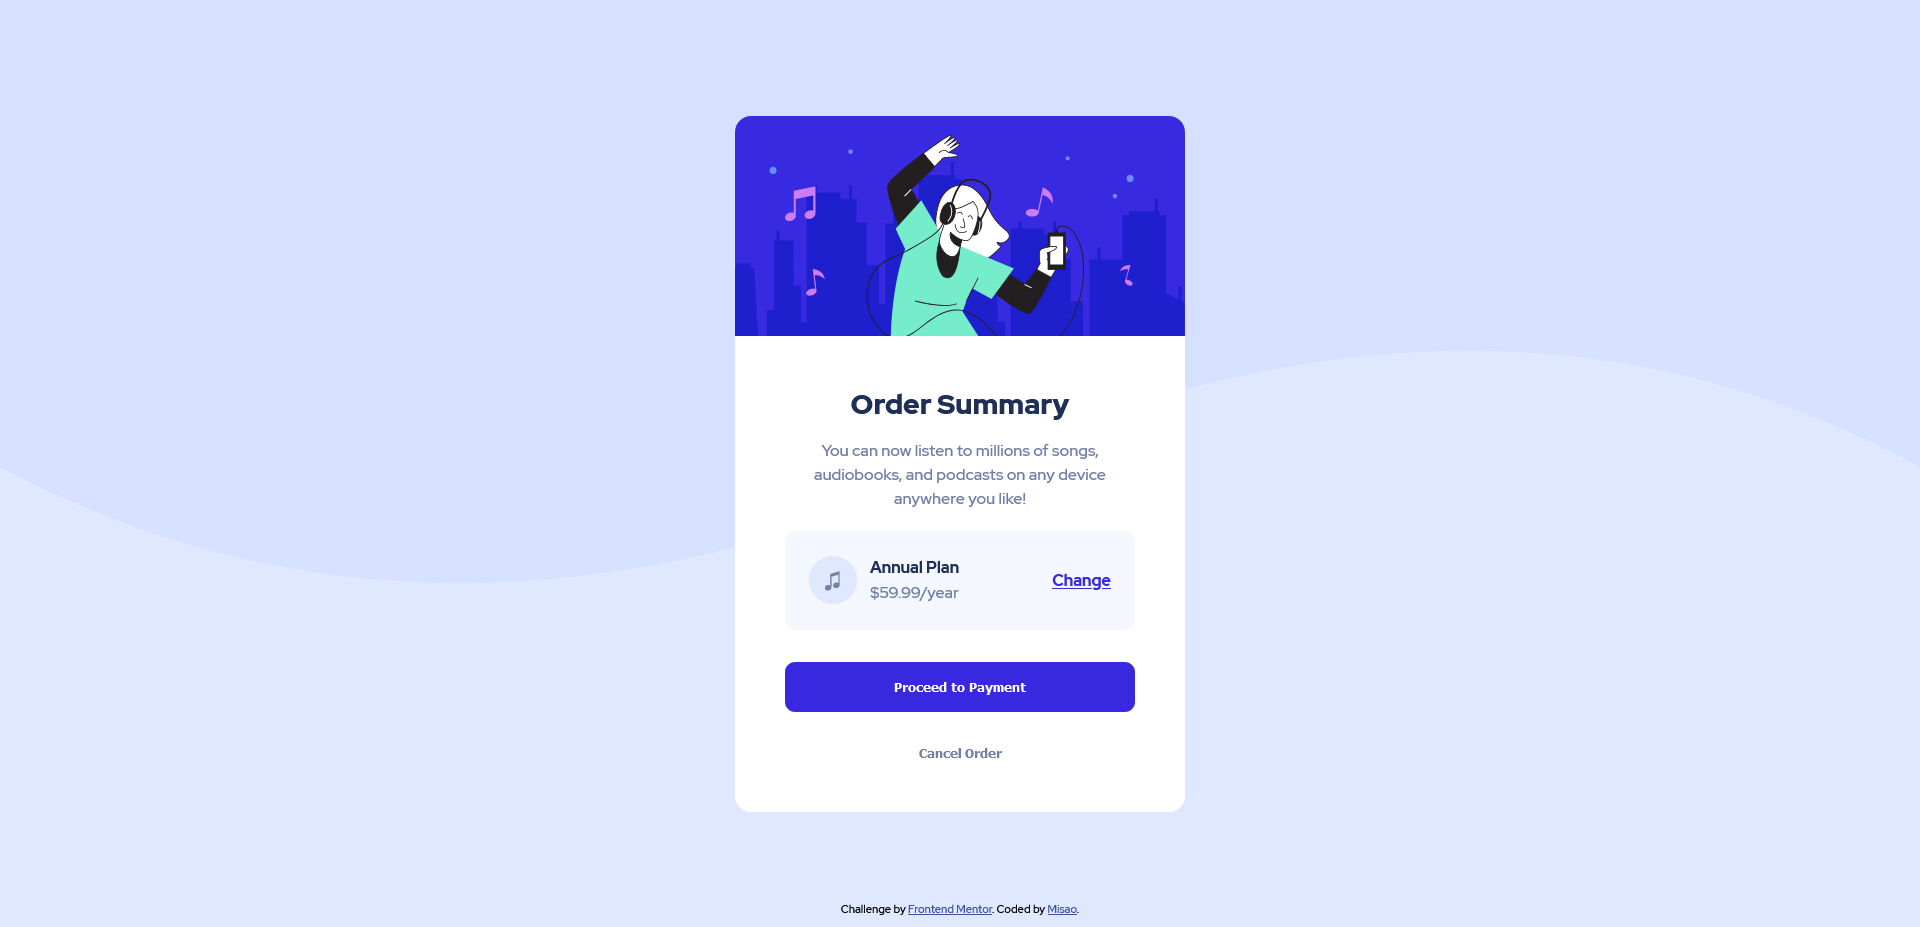
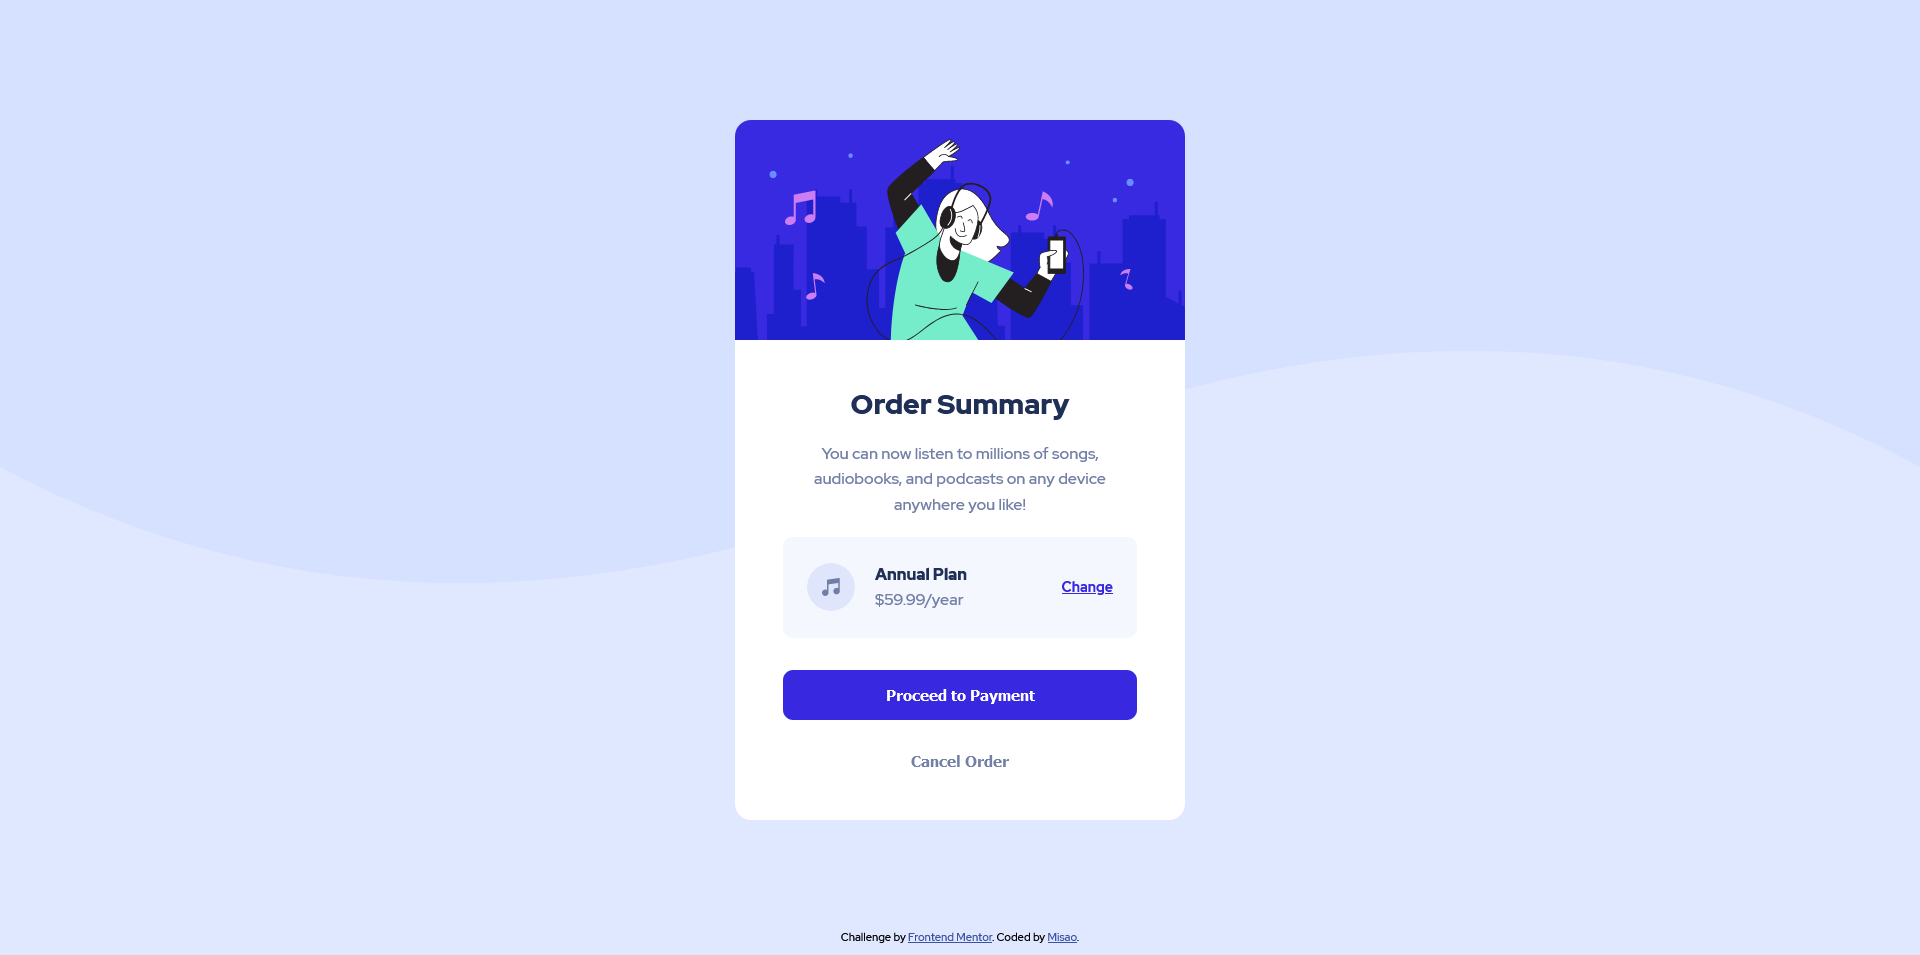
Add changes made from feedback

diff --git a/styles/main.css b/styles/main.css
@@ -1,9 +1,9 @@
 :root {
-  --primary-blue    : hsl(245, 75%, 52%);
-  --pale-blue       : hsl(225, 100%, 94%);
-  --very-pale-blue  : hsl(225, 100%, 98%);
+  --primary-blue: hsl(245, 75%, 52%);
+  --pale-blue: hsl(225, 100%, 94%);
+  --very-pale-blue: hsl(225, 100%, 98%);
   --desaturated-blue: hsl(224, 23%, 55%);
-  --dark-blue       : hsl(223, 47%, 23%);
+  --dark-blue: hsl(223, 47%, 23%);
 }
 
 body {
@@ -18,53 +18,91 @@ body {
   -ms-align-items: center;
   align-items: center;
   justify-content: center;
-  height: 100vh;
+  min-height: calc(100vh - 64px);
+  padding-top: 24px;
+  padding-left: 24px;
+  padding-right: 24px;
+  padding-bottom: 40px;
   background-image: url('../images/pattern-background-desktop.svg');
   background-repeat: no-repeat;
   background-position: top;
   background-size: contain;
+  background-attachment: fixed;
   background-color: #e0e8ff;
   background-color: var(--pale-blue);
 }
 
+@media screen and (max-width: 420px) {
+  .container {
+    padding-left: 24px;
+    padding-right: 24px;
+  }
+}
+
 .card {
-  width: 450px;
-  height: 696px;
+  max-width: 450px;
   text-align: center;
   background-color: white;
   border-radius: 16px;
+  padding-bottom: 18px;
 }
 
-.card img {
+@media screen and (max-width: 420px) {
+  .card {
+    padding-bottom: 6px;
+  }
+}
+
+.card-content {
+  padding-left: 48px;
+  padding-right: 48px;
+}
+
+@media screen and (max-width: 420px) {
+  .card-content {
+    padding-left: 24px;
+    padding-right: 24px;
+  }
+}
+
+.card-banner {
   border-radius: 16px 16px 0 0;
+  max-width: 100%;
+  object-fit: cover;
 }
 
-h2 {
+h1 {
   font-weight: 900;
-  margin-top: 44px;
-  margin-bottom: 10px;
+  margin-top: 40px;
+  margin-bottom: 18px;
   font-size: 28px;
   color: navy;
   color: var(--dark-blue);
 }
 
+@media screen and (max-width: 420px) {
+  h1 {
+    font-size: 22px;
+    margin-top: 28px;
+    margin-bottom: 16px;
+  }
+}
+
 .card p {
-  width: 80%;
   margin-left: auto;
   margin-right: auto;
   margin-bottom: 20px;
   color: #99b;
   color: var(--desaturated-blue);
-  line-height: 1.5;
+  line-height: 1.6;
 }
 
-.attribution {
-  position: absolute;
-  bottom: 1em;
-  left: 0;
-  right: 0;
-  margin-left: auto;
-  margin-right: auto;
+@media screen and (max-width: 420px) {
+  .card p {
+    margin-bottom: 24px;
+    margin-left: 8px;
+    margin-right: 8px;
+  }
 }
 
 .card-item {
@@ -73,8 +111,7 @@ h2 {
   -ms-align-items: center;
   align-items: center;
   justify-content: space-between;
-  width: calc(350px - 48px);
-  padding: 24px;
+  padding: 24px 24px 25px 24px;
   margin-left: auto;
   margin-right: auto;
   margin-bottom: 32px;
@@ -83,25 +120,30 @@ h2 {
   border-radius: 10px;
 }
 
-.icon {
-  line-height: 48px;
-  width: 48px;
-  height: 48px;
+@media screen and (max-width: 420px) {
+  .card-item {
+    padding: 16px;
+    margin-bottom: 22px;
+  }
+}
+
+.item-icon {
   border-radius: 50%;
-  background-color: #aac;
-  background-color: var(--pale-blue);
-  color: #88a;
-  color: var(--desaturated-blue);
   display: inline-block;
-  text-align: center;
-  font-size: 24px;
 }
 
 .details {
   display: inline-block;
-  margin-right: 64px;
+  width: 100%;
+  padding-left: 20px;
   line-height: 1.6;
   text-align: left;
+}
+
+@media screen and (max-width: 420px) {
+  .details {
+    font-size: 14px;
+  }
 }
 
 .item-name {
@@ -122,19 +164,33 @@ h2 {
   font-size: 14px;
 }
 
+@media screen and (max-width: 420px) {
+  .card-item a {
+    font-size: 13px;
+  }
+}
+
 .card-item a:hover {
-  transform: scale(1.1);
+  text-decoration: none;
+  opacity: 70%;
 }
 
 .btn {
   display: block;
   margin: 16px auto 16px auto;
-  width: 350px;
+  width: 100%;
   border: 0;
   height: 50px;
   border-radius: 10px;
   font-weight: 700;
   font-size: 15px;
+}
+
+@media screen and (max-width: 420px) {
+  .btn {
+    margin-top: 10px;
+    margin-bottom: 10px;
+  }
 }
 
 .btn-primary {
@@ -149,12 +205,24 @@ h2 {
   background-color: transparent;
 }
 
-.btn:hover {
-  box-shadow: 0 0 1px 2px black;
-  font-size: 16px;
+.btn-primary:hover {
+  opacity: 70%;
+}
+
+.btn-transparent:hover {
+  color: black;
 }
 
 .btn:active {
   box-shadow: inset 0 0 2px 2px black;
   padding-top: 5px;
+}
+
+.attribution {
+  position: absolute;
+  bottom: 1em;
+  left: 0;
+  right: 0;
+  margin-left: auto;
+  margin-right: auto;
 }

diff --git a/index.html b/index.html
@@ -29,35 +29,40 @@
 
 <body>
 
-  <div class="container">
-    <div class="card">
-      <img src="images\illustration-hero.svg" alt="A person enjoying music on their phone" />
-      <h2>
-        Order Summary
-      </h2>
-      <p>
-        You can now listen to millions of songs, audiobooks, and podcasts on any
-        device anywhere you like!
-      </p>
-      <div class="card-item">
-        <span class="icon">♫</span>
-        <div class="details">
-          <span class="item-name">Annual Plan</span>
-          <br />
-          <span class="item-price">$59.99/year</span>
+  <main>
+    <div class="container">
+      <div class="card">
+        <img class="card-banner" src="images/illustration-hero.svg" alt="" />
+        <div class="card-content">
+          <h1>
+            Order Summary
+          </h1>
+          <p>
+            You can now listen to millions of songs, audiobooks, and podcasts on any
+            device anywhere you like!
+          </p>
+          <div class="card-item">
+            <img class="item-icon" src="images/icon-music.svg" alt="" />
+            <div class="details">
+              <div class="item-name">Annual Plan</div>
+              <div class="item-price">$59.99/year</div>
+            </div>
+            <a href="">Change</a>
+          </div>
+          <button class="btn btn-primary">Proceed to Payment</button>
+          <button class="btn btn-transparent">Cancel Order</button>
         </div>
-        <a href="">Change</a>
       </div>
-      <button class="btn btn-primary">Proceed to Payment</button>
-      <button class="btn btn-transparent">Cancel Order</button>
     </div>
-  </div>
+  </main>
 
 
-  <div class="attribution">
-    Challenge by <a href="https://www.frontendmentor.io?ref=challenge" target="_blank">Frontend Mentor</a>.
-    Coded by <a href="#">Misao</a>.
-  </div>
+  <footer>
+    <div class="attribution">
+      Challenge by <a href="https://www.frontendmentor.io?ref=challenge" target="_blank">Frontend Mentor</a>.
+      Coded by <a href="#">Misao</a>.
+    </div>
+  </footer>
 </body>
 
 </html>

diff --git a/README.md b/README.md
@@ -50,6 +50,7 @@ Users should be able to:
 - Learned about [fallback colors](https://github.com/CSSLint/csslint/wiki/Require-fallback-colors), and started adding them!
 - Tinkered with flex (just started learning).
 - Learned the horrible truth that is CSSLint bugs.
+- Some experience with media queries.
 
 #### Misc
 
